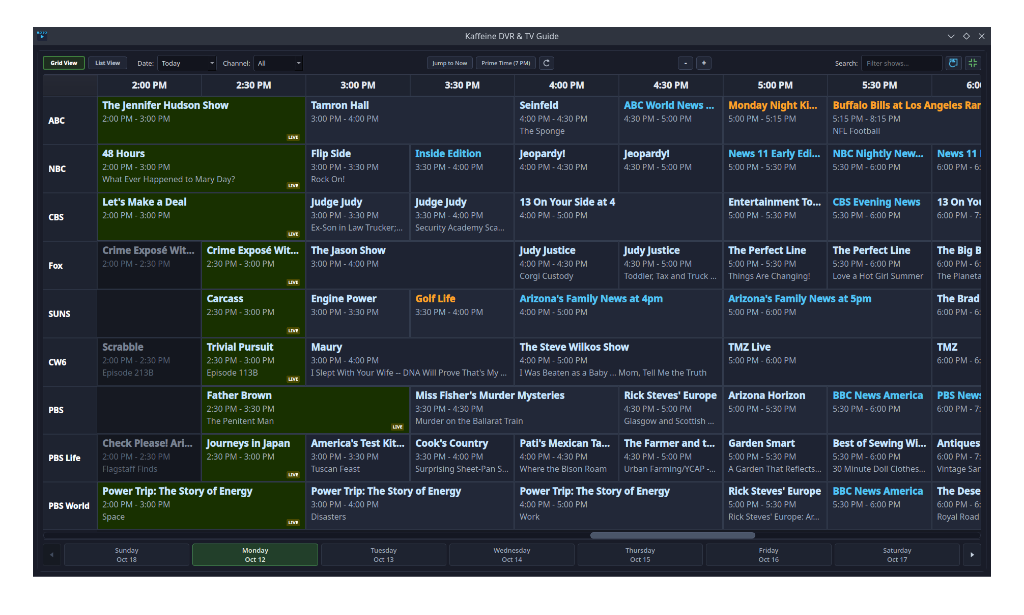
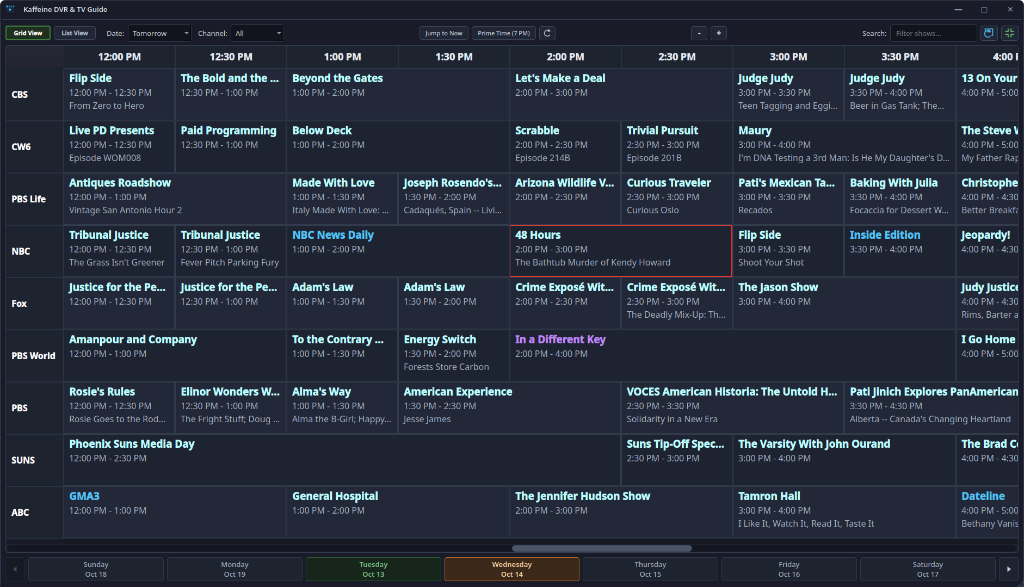
Update README screenshots with latest UI views and bump release link to v0.8.11

diff --git a/README.md b/README.md
@@ -63,7 +63,7 @@ Kaffeine is a powerful digital TV viewer for KDE and Linux desktop environments,
 
 The AppImage is completely self-contained. **No Python, PyQt6, or package installation is needed** (all libraries and dependencies are bundled inside).
 
-- **Latest Available AppImage**: [Download Kaffeine-DVR-TV-Guide v0.8.6 AppImage](https://github.com/PlasmaDrifter/Kaffeine-DVR-TV-Guide/releases/tag/v0.8.6)
+- **Latest Available AppImage**: [Download Kaffeine-DVR-TV-Guide v0.8.11 AppImage](https://github.com/PlasmaDrifter/Kaffeine-DVR-TV-Guide/releases/tag/v0.8.11)
 - **All Releases & Source Code**: [View All GitHub Releases](https://github.com/PlasmaDrifter/Kaffeine-DVR-TV-Guide/releases)
 
 1. Download the AppImage file from the link above.
